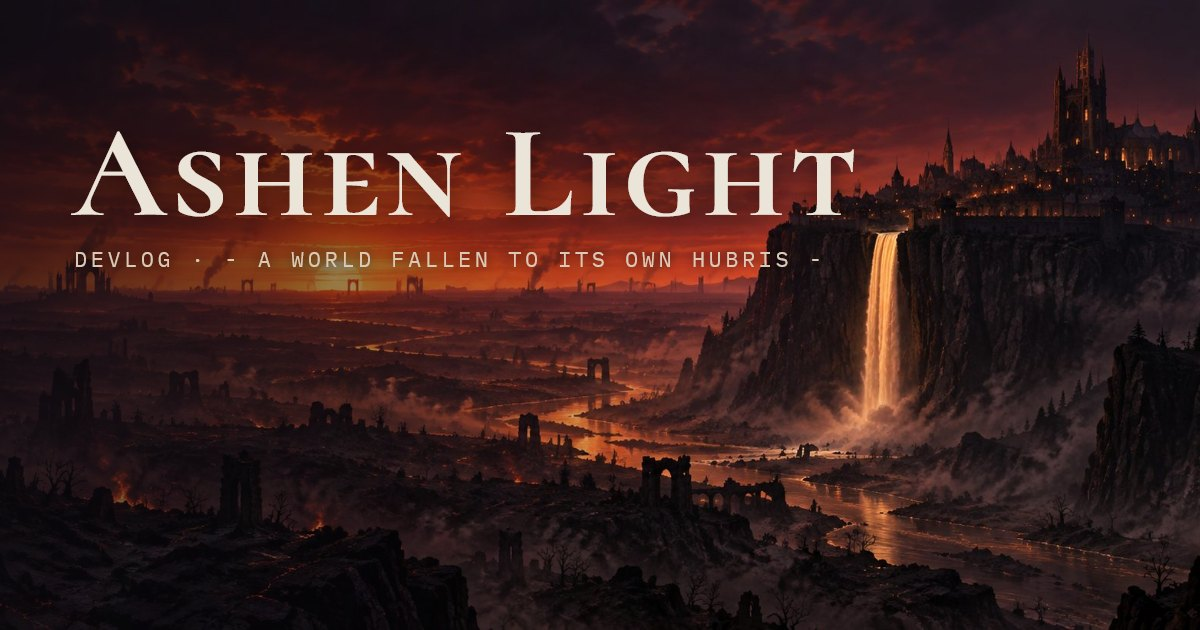
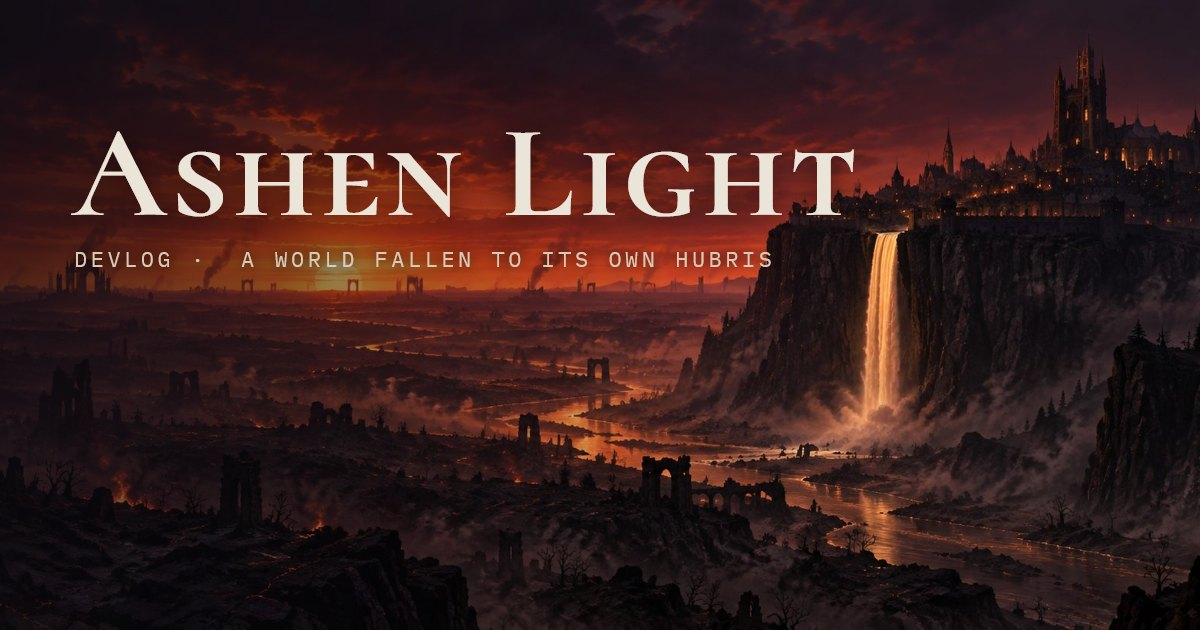
Add files via upload

Changed region(s): [[0.185, 0.3921, 0.6783, 0.4222]]

diff --git a/_posts/2026-11-16-rivers-grass-and-some-other-stuff.md b/_posts/2026-11-16-rivers-grass-and-some-other-stuff.md
@@ -1,0 +1,44 @@
+---
+title: "Rivers, Grass & Some Other Stuff"
+lede: "Some of the stuff that I've been working on recently."
+tags: ["Technical","Visuals","Items","Skills"]
+---
+## Flowing Rivers
+I've built a river system that utilizes a point grid to make water flow more naturally into rivers and lakes. The rivers flow faster in tighter areas and slower into larger areas, forming lakes simply by expanding the size of it. Where the river collides with Objects or Players/NPC/Monsters the river foams up naturally.
+
+This short video shows the system working on the main-menu of the game.
+{% include youtube.html id="E9IGj0MJzYc" %}
+
+## Procedurally Generated Grass
+Another system that really helps the world come alive is grass. Procedurally generated and in a top-down view it's fairly low performance cost.
+
+For the Main-menu I use it completely procedurally, while in-game it's painted into masked areas to give more control over where it should be placed, though still the same grass and the same system.
+
+The grass also reacts to the Weather system that I've built in the game, blowing in the wind etc along with the trees.
+
+Here's a short video showing it in action on the Main-Menu scene, it's fairly simple looking up close, but comes together nicely at a distance.
+{% include youtube.html id="ZWxCH9Axybc" %}
+
+## Tier 10 Weapon Set & Tier 1+2 Armor Sets
+I've been working a lot on the models for Tier 10 weapons as well as the armor sets for Tier 1 and Tier 2. I figured I'd showcase some of it here.
+
+{% include image.html src="/assets/images/posts/t10.jpg" alt="" caption="Compilation of Tier 10 Weapons so far" %}
+
+{% include image.html src="/assets/images/posts/perspective-swords.jpg" alt="" caption="I'm especially proud of the Lucerite Sword and it's Fallen Twin Unique Weapon" %}
+
+{% include image.html src="/assets/images/posts/t1t2.jpg" alt="" caption="The Tier 1 and Tier 2 armor sets, the first two armor sets at early levels. They're meant to look like crap." %}
+
+Next up in the armor sets is the Reinforced Leather Armor, which is the Tier 3 set, based on the Tier 2 set but with added plated areas. Followed by the Chain Mail armor set, Tier 4.
+
+## New Skills
+I've added quite a bit off skills so far. Each element now has it's own T1 Bolt spells. (Firebolt, Icebolt, Stonebolt, etc).
+
+Each skill always comes with a Tier 1, Tier 2 and Tier 3 passive choice. And each Tier gives 3~ choices. That way, every skill in the game is customizable. (and around 9x more work for me)
+
+I also expanded the Physical Talent Tree with more space to account for more play-styles. It currently holds Melee Warrior skills to the left, Rogue/stealth skill in the center, and Ranger skills to the right.
+
+So far I've added Ricochet and Rapid Fire to the Ranged side, and Beartrap sitting in the middle between Rogue & Ranged.
+
+For the Dark spell tree I've added the first T3 skill in the game, Summon Skeleton Mage.
+
+{% include youtube.html id="aw1Jf3sUUf0" caption="Ending the post with a video showcasing the summoning work I did today!" %}

diff --git a/_posts/2026-10-21-sockets-gems-and-a-redesigned-inventory.md b/_posts/2026-10-21-sockets-gems-and-a-redesigned-inventory.md
@@ -16,7 +16,7 @@ Sockets can also be added with a gold-sink & material spending mechanic at the j
 ## Jeweler
 New NPC, sells lower quality gems, adds sockets to equipment, combines gems to upgrade them.
 
-## A redesign of thee Inventory & Equipment UI.
+## A redesign of the Inventory & Equipment UI.
 This is something that had to be done to get the socket slots to appear the way I wanted it to. It's essentially identical to Diablo 2. This opens up the potential for a "Runeword" style system later if I decide to add one.
 
 {% include image.html src="/assets/images/posts/newui-inventory.jpg" alt="The new Inventory Redesign" %}
